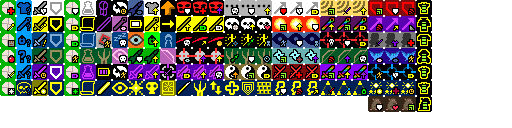
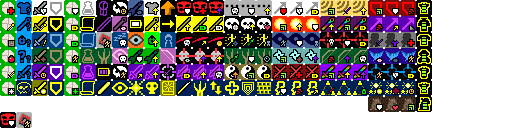
talenticons merge improv

Changed region(s): [[0.0, 0.875, 0.0625, 1.0]]

diff --git a/core/src/main/java/com/shatteredpixel/shatteredpixeldungeon/actors/hero/Talent.java b/core/src/main/java/com/shatteredpixel/shatteredpixeldungeon/actors/hero/Talent.java
@@ -102,7 +102,7 @@ public enum Talent {
 	//Warrior T3
 	HOLD_FAST(9, 3), STRONGMAN(10, 3),
 	//Berserker T3
-	LAST_STAND(11, 3), UNDYING_RAGE(12, 3), ENRAGED_CATALYST(13, 3),
+	LAST_STAND(224, 3), UNDYING_RAGE(12, 3), ENRAGED_CATALYST(13, 3),
 	//Gladiator T3
 	CLEAVE(14, 3), LETHAL_DEFENSE(15, 3), ENHANCED_COMBO(16, 3),
 	//Heroic Leap T4
@@ -132,7 +132,7 @@ public enum Talent {
 	//Rogue T1
 	CACHED_RATIONS(64), THIEFS_INTUITION(65), SUCKER_PUNCH(66), PROTECTIVE_SHADOWS(67),
 	//Rogue T2
-	MYSTICAL_MEAL(68), INSCRIBED_STEALTH(69), SMART_ESCAPE(70), SILENT_STEPS(71), ROGUES_EXPERTISE(72),
+	MYSTICAL_MEAL(68), INSCRIBED_STEALTH(69), SMART_ESCAPE(225), SILENT_STEPS(71), ROGUES_EXPERTISE(72),
 	//Rogue T3
 	ENHANCED_RINGS(73, 3), LIGHT_CLOAK(74, 3),
 	//Assassin T3
